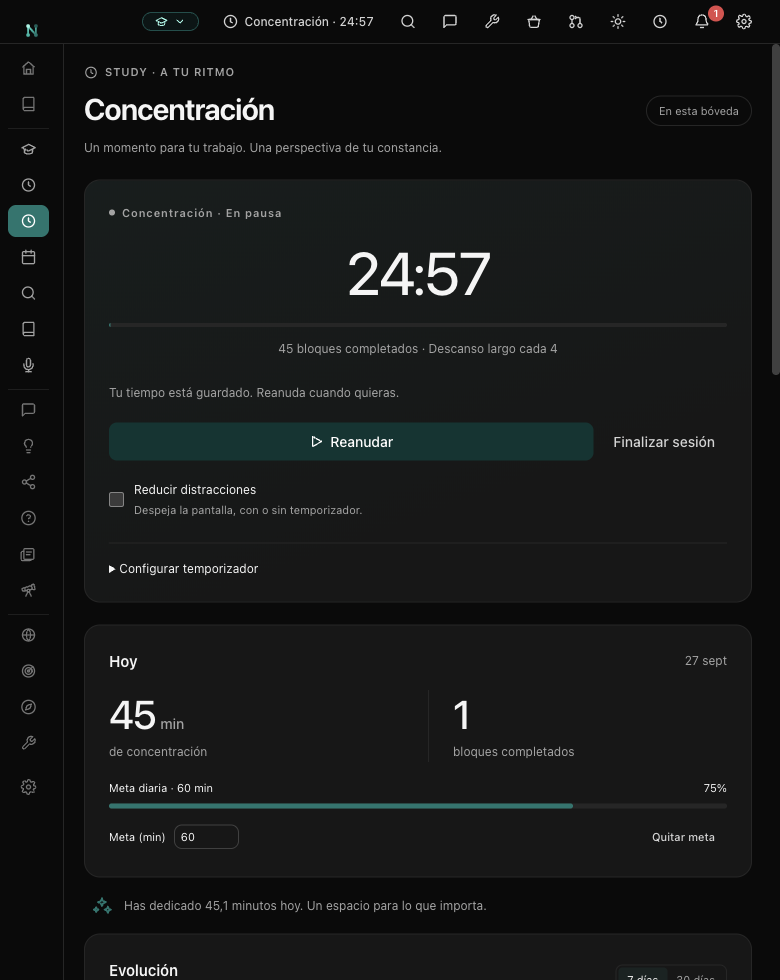
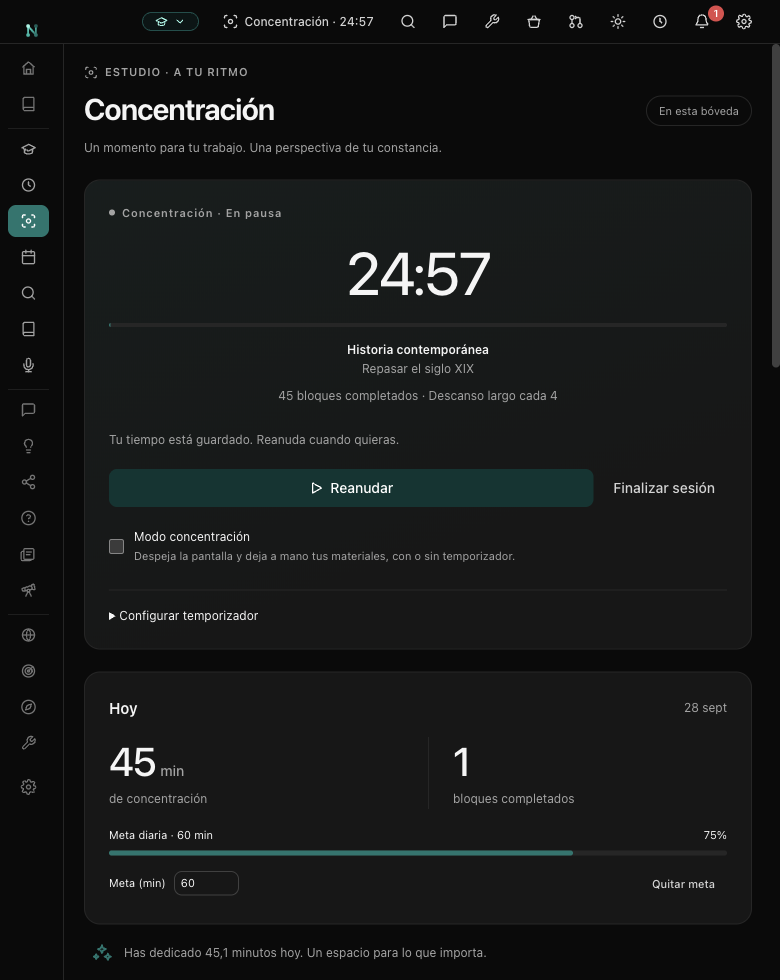
test(study): verify the focus rail end to end, in Spanish and English
The desktop walkthrough now drives focus mode the way a student would: start a
block with a subject and an intention, reach every study section from the rail,
open a note of the subject, create a new one, go to the question bank, Notas and
the browser, keep the media controls, open the timer from the palette, leave the
mode, and fold the rail in a narrow window. It also switches the interface to
English and checks that the rail has no Spanish left. The banner and tutorial
handlers no longer depend on Spanish labels. Screenshots and notes are refreshed.

diff --git a/docs/verification/study-focus/README.md b/docs/verification/study-focus/README.md
@@ -8,9 +8,12 @@ Implementación de escritorio por bóveda. Las capturas usan datos de ejemplo en
 - `02-dashboard-light.png`: temporizador, hoy, objetivo y evolución.
 - `03-history-light.png`: calendario de 12 semanas y sesiones recientes.
 - `04-header-panel.png`: panel compacto y configuración.
-- `05-editor-focus.png`: editor despejado, navegación y salida visible.
+- `05-editor-focus.png`: modo concentración con un apunte abierto desde el panel lateral.
 - `06-dashboard-dark.png`: tema oscuro y sesión pausada.
 - `07-narrow-dark.png`: disposición en ventana estrecha.
+- `08-focus-rail-notes.png`: el panel de concentración lleva a Notas (espacio de trabajo) sin salir del modo.
+- `09-focus-browser-media.png`: navegador abierto desde el panel y controles de medios en la cabecera.
+- `10-narrow-rail-dark.png`: en ventana estrecha el panel se pliega a iconos.
 
 ## Resultado
 
@@ -32,8 +35,19 @@ La prueba de escritorio utiliza Electron, IPC, SQLite y vistas reales. Comprueba
 
 La suspensión se prueba emitiendo el evento de Electron; no se suspende físicamente el ordenador. La lectura con un lector de pantalla real y el comportamiento del sistema operativo con notificaciones requieren revisión manual, especialmente fuera de macOS.
 
+## Modo concentración
+
+Sustituye la barra lateral por un panel propio en vez de esconder la navegación:
+
+- el bloque en curso (reloj, asignatura y objetivo), que abre el temporizador;
+- los apuntes y materiales de la asignatura del bloque, o los más recientes sin asignatura, con filtro cuando son muchos y «Nuevo apunte» archivado en la asignatura;
+- todas las secciones de Estudio en el orden guardado por el usuario, además de Biblioteca y Notas (salvo que el usuario la haya ocultado expresamente);
+- la salida del modo. Se pliega a iconos y lo hace solo en ventanas estrechas.
+
+La cabecera conserva el temporizador, los controles de medios del navegador, la paleta de comandos, el tema, la cola de tareas y una actualización pendiente. La paleta ofrece «Entrar en modo concentración» y «Temporizador de concentración». Todo el texto pasa por `t()`/`tx()` y está traducido a los once idiomas; la prueba de escritorio recorre también la interfaz en inglés.
+
 ## Detalles de persistencia
 
-La migración aditiva 194 crea `study_focus_state`, `study_focus_sessions` y `study_focus_intervals`. El estado y cada intervalo se escriben en una transacción. El servicio conserva el tiempo con un reloj monotónico, registra puntos de recuperación cada 15 segundos y recupera siempre en pausa. Los intervalos conservan el día local en que se registraron. Las duraciones parciales se guardan en milisegundos sin redondeo; el redondeo es solo de presentación.
+La migración aditiva 194 crea `study_focus_state`, `study_focus_sessions` y `study_focus_intervals`; la 195 añade `study_focus_sessions.task`, el objetivo opcional de cada bloque. La asignatura y el objetivo pasan al bloque siguiente, también a través del descanso, hasta que el estudiante los cambia. El estado y cada intervalo se escriben en una transacción. El servicio conserva el tiempo con un reloj monotónico, registra puntos de recuperación cada 15 segundos y recupera siempre en pausa. Los intervalos conservan el día local en que se registraron. Las duraciones parciales se guardan en milisegundos sin redondeo; el redondeo es solo de presentación.
 
 Los cambios de duración afectan al siguiente tramo. Los descansos requieren inicio manual y no aportan minutos de trabajo. La reducción de distracciones tiene estado independiente y no modifica las preferencias del sidebar, los paneles del editor ni la reproducción del navegador. Las métricas no se mezclan con tests ni flashcards y la sección está excluida de la navegación web.
